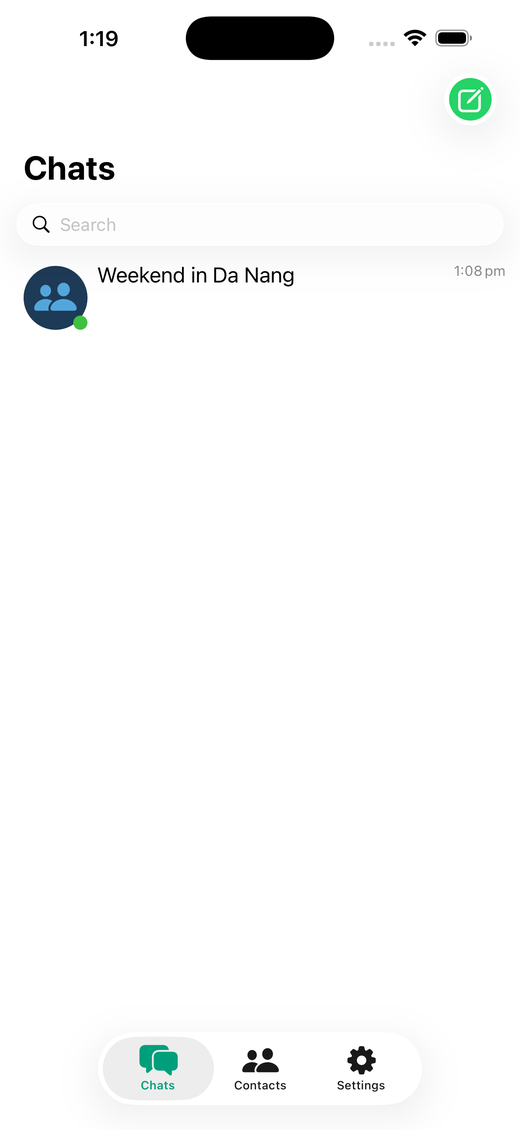
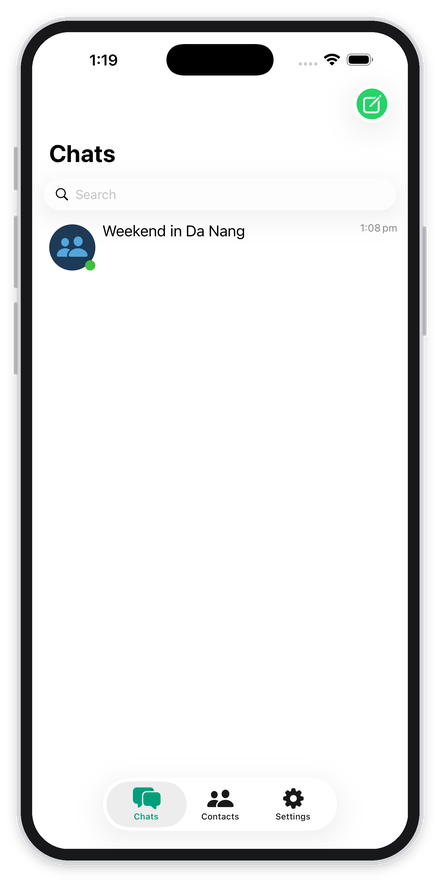
README: show the iPhone screens in a device frame
Four iOS screens now — opening splash, sign-in, chat list, conversation —
composited into an iPhone-style frame instead of two bare screenshots.

The frame earns its place beyond looking nicer: the sign-in and chat-list
screens are almost entirely white, and against GitHub's white page background
a bare screenshot has no edge at all. A handset outline gives them one, and
tells the reader at a glance that this is a phone app.

brand/frame-device.py renders it. Geometry is derived from the screenshot
width rather than hard-coded, so the same script works at any resolution, and
the output is RGBA with a transparent margin so it sits correctly on both the
light and dark GitHub themes.

Android moves to its own row, still unframed — an iPhone bezel around an
Android screenshot would be a lie about what the reader is looking at.

Images verified present, allowlisted, and OCR-clean of real account names.
620 KB total.

Changed region(s): [[0.0295, 0.0, 0.975, 1.0], [0.8273, 0.2452, 0.8864, 0.2758]]

diff --git a/brand/frame-device.py b/brand/frame-device.py
@@ -1,0 +1,67 @@
+#!/usr/bin/env python3
+"""Composite a raw iOS screenshot into an iPhone-style device frame.
+
+README screenshots read better inside a handset: it tells the reader at a
+glance that this is a phone app, and stops the flat white login screen from
+dissolving into GitHub's white page background.
+
+Everything is derived from the screenshot width so the geometry holds at any
+resolution. Output is RGBA with a transparent margin, so the frame sits on
+both the light and dark GitHub themes.
+"""
+import os
+import sys
+
+from PIL import Image, ImageDraw, ImageFilter
+
+
+def frame(src, dst):
+    shot = Image.open(src).convert("RGB")
+    w, h = shot.size
+
+    bezel = round(w * 0.030)      # black border around the glass
+    rail = round(w * 0.010)       # bright edge suggesting the titanium band
+    pad = round(w * 0.055)        # transparent margin for the shadow + buttons
+    screen_r = round(w * 0.098)   # screen corner radius
+    body_r = screen_r + bezel
+
+    bw, bh = w + bezel * 2, h + bezel * 2
+    cw, ch = bw + pad * 2, bh + pad * 2
+    canvas = Image.new("RGBA", (cw, ch), (0, 0, 0, 0))
+
+    # Drop shadow first, so the body sits on top of it.
+    shadow = Image.new("RGBA", (cw, ch), (0, 0, 0, 0))
+    ImageDraw.Draw(shadow).rounded_rectangle(
+        [pad, pad + round(h * 0.004), pad + bw, pad + bh + round(h * 0.004)],
+        body_r, fill=(0, 0, 0, 90))
+    canvas.alpha_composite(shadow.filter(ImageFilter.GaussianBlur(round(w * 0.018))))
+
+    d = ImageDraw.Draw(canvas)
+    # Outer band, then the black body inset within it.
+    d.rounded_rectangle([pad - rail, pad - rail, pad + bw + rail, pad + bh + rail],
+                        body_r + rail, fill=(209, 211, 215, 255))
+    d.rounded_rectangle([pad, pad, pad + bw, pad + bh], body_r, fill=(24, 24, 26, 255))
+
+    # Side buttons: volume pair and action button left, power right.
+    btn = (176, 178, 183, 255)
+    bx_l, bx_r = pad - rail, pad + bw + rail
+    for top, length in ((0.150, 0.052), (0.232, 0.086), (0.335, 0.086)):
+        y = pad + round(bh * top)
+        d.rounded_rectangle([bx_l - round(w * 0.008), y, bx_l + 1, y + round(bh * length)],
+                            round(w * 0.004), fill=btn)
+    y = pad + round(bh * 0.245)
+    d.rounded_rectangle([bx_r - 1, y, bx_r + round(w * 0.008), y + round(bh * 0.130)],
+                        round(w * 0.004), fill=btn)
+
+    # Round the screenshot's own corners so it matches the glass.
+    mask = Image.new("L", (w, h), 0)
+    ImageDraw.Draw(mask).rounded_rectangle([0, 0, w, h], screen_r, fill=255)
+    canvas.paste(shot, (pad + bezel, pad + bezel), mask)
+
+    canvas.save(dst)
+    return canvas.size
+
+
+if __name__ == "__main__":
+    size = frame(sys.argv[1], sys.argv[2])
+    print(f"  {os.path.basename(sys.argv[2])}  {size[0]}x{size[1]}")

diff --git a/README.md b/README.md
@@ -16,12 +16,18 @@ address anyone can reach is not a room anyone can walk into.
 ### On your phone
 
 <p align="center">
-  <img src="brand/screenshots/ios-chats.png" width="215" alt="iOS chat list">
-  <img src="brand/screenshots/ios-conversation.png" width="215" alt="iOS conversation">
+  <img src="brand/screenshots/ios-splash.png" width="192" alt="BLML opening on iPhone">
+  <img src="brand/screenshots/ios-welcome.png" width="192" alt="iPhone sign-in screen">
+  <img src="brand/screenshots/ios-chats.png" width="192" alt="iPhone chat list">
+  <img src="brand/screenshots/ios-conversation.png" width="192" alt="iPhone conversation">
+</p>
+<p align="center"><sub>On iPhone</sub></p>
+
+<p align="center">
   <img src="brand/screenshots/android-chats.png" width="215" alt="Android chat list">
   <img src="brand/screenshots/android-conversation.png" width="215" alt="Android conversation">
 </p>
-<p align="center"><sub>iPhone (left two) and Android (right two)</sub></p>
+<p align="center"><sub>On Android</sub></p>
 
 ### In your browser
 
